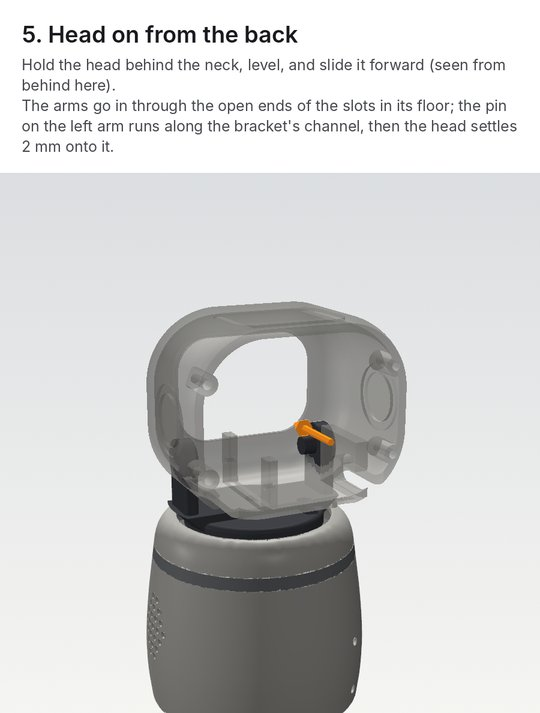
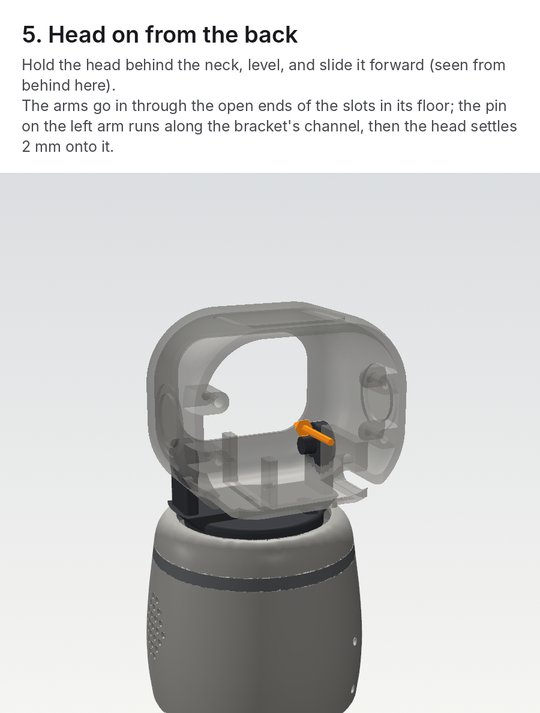
Pod: keep the cover screws where they were and give them solid pads
Dan has already printed the head, so 566f447's moved screws and changed head
bosses are undone: the head is back exactly as it was. The cover keeps its
holes at 28.6 mm out and 13 mm above and below the middle. Each now has a
solid 3 mm flat pad round it at the cut face for the screw head to sit on
(clipped to the cover's outline), and above it a 10 mm lug joined to the
side wall that runs up to the back wall. Both stand on the bed, so nothing
round the screws needs supports, which is what tore the thin curl off.
The build guide's print table now says the cover needs supports under its
back wall only.

Claude-Session: https://claude.ai/code/session_012i1oPz2httJgKX5brpsP29

diff --git a/pod/cad/kit_pod_v2.py b/pod/cad/kit_pod_v2.py
@@ -254,19 +254,26 @@ def head_shell():
 
 BOSS_D = 6.0
 COVER_LUG_D = 10.0                      # the cover's solid lug round each of its screws
+COVER_PAD_T = 3.0                       # the flat pad each cover screw's head sits on
 
 
 def head_cover_bosses():
-    # In from the sides and 8 mm above and below the middle. The cover is only 9 mm deep and its sides curve
-    # in toward the back, so further out or further up and down the holes broke out through its wall.
-    return [(sx * 25.5, H_ZC + sz * 8.0) for sx in (-1, 1) for sz in (-1, 1)]
+    return [(sx * 28.6, H_ZC + sz * 13.0) for sx in (-1, 1) for sz in (-1, 1)]
 
 
 def cover_screw_lug(x, z, d, y0, y1):
-    """A round lug along Y for a cover screw, with a web out to the side wall so it's part of the shell."""
+    """A round lug along Y for a cover screw, with a web out to the side wall so it's part of the cover."""
     sx = 1 if x > 0 else -1
     web = box(min(x, sx * (HW / 2 + 1)), y0, z - d / 2, max(x, sx * (HW / 2 + 1)), y1, z + d / 2)
     return cyl(d, y1 - y0, (x, y0, z), "Y").union(web)
+
+
+def cut_face_outline(y0, y1):
+    """The head's outline where it meets the cover, run straight along Y: the back fillet has already pulled the
+    sides in a little there, so this is the outer shape shrunk by that much."""
+    e = H_BACK_R - math.sqrt(H_BACK_R ** 2 - (H_CUT - (H_Y1 - H_BACK_R)) ** 2)
+    s = cq.Workplane().box(HW - 2 * e, y1 - y0, HH - 2 * e, centered=(True, False, True)).translate((0, y0, H_ZC))
+    return s.edges("|Y").fillet(H_R - e)
 
 
 def arm_slot(x0, x1):
@@ -304,7 +311,7 @@ def head():
     shell = shell.union(bulk.union(brk).intersect(inside))
     # bosses for the back cover
     for x, z in head_cover_bosses():
-        shell = shell.union(cover_screw_lug(x, z, BOSS_D, H_CUT - 10, H_CUT).intersect(inside))
+        shell = shell.union(cyl(BOSS_D, 10, (x, H_CUT - 10, z), "Y").intersect(inside))
         shell = shell.cut(cyl(pilot, 9, (x, H_CUT - 9, z), "Y"))
     # floor: slots for the neck's arms and the wire hole
     shell = shell.cut(arm_slot(R_ARM_X0 - 0.5, R_ARM_X0 + ARM_T + 0.5))
@@ -336,15 +343,20 @@ def ears():
 
 def cover():
     c = head_shell().intersect(box(-50, H_CUT, -10, 50, 60, 120))
-    # A solid lug round each screw, from the cut face to the back wall and joined to the side wall, so the
-    # hole and the screw head's counterbore have plastic all round (bare, they left only a thin curl of wall).
-    # The lugs stand on the bed (the cover prints cut face down), so they need no supports.
+    # The screws sit where the cover's corners curve in toward the back, so the cover is only 2-3 mm deep
+    # there and the hole and the screw head's counterbore left a thin curl of wall that tore off with the
+    # supports. Each screw now has a flat pad, solid from the cut face to COVER_PAD_T, that the screw head
+    # sits on, and above it a lug joined to the side wall that runs up to the back wall. Both stand on the
+    # bed (the cover prints cut face down), so nothing round the screws needs supports. The holes stay
+    # where they were, so the head's bosses don't change.
     outer = head_outer().intersect(box(-50, H_CUT, -10, 50, 60, 120))
+    rim = cut_face_outline(H_CUT, H_CUT + COVER_PAD_T)
     for x, z in head_cover_bosses():
         c = c.union(cover_screw_lug(x, z, COVER_LUG_D, H_CUT, H_Y1 + 1).intersect(outer))
+        c = c.union(cyl(COVER_LUG_D, COVER_PAD_T, (x, H_CUT, z), "Y").intersect(rim))
     for x, z in head_cover_bosses():
         c = c.cut(cyl(clear3, 30, (x, H_CUT - 1, z), "Y"))
-        c = c.cut(cyl(6.2, 30, (x, H_CUT + 3.0, z), "Y"))      # counterbore: screw heads sit inside
+        c = c.cut(cyl(6.2, 30, (x, H_CUT + COVER_PAD_T, z), "Y"))   # counterbore: screw heads sit on the pad
     return c
 
 

diff --git a/pod/cad/README.md b/pod/cad/README.md
@@ -98,4 +98,4 @@ The pin's bracket in the head is 4 mm thick, with 7 mm of wall below the pin's c
 
 The body's three base screw bosses are joined to its wall by a 7 mm web with a 45 degree gusset on top. On their own they stood 0.1 to 0.9 mm clear of the wall, so they printed as loose towers and snapped off (2026-10-14).
 
-The back cover's four screws sit 25.5 mm either side of the middle and 8 mm above and below it, each through a 10 mm lug joined to the cover's side wall, and the head's matching bosses are joined to its walls too. Further out and further up and down, the cover's curved back corners left only a thin curl of wall round each hole, which tore off with the supports (2026-10-18).
+The back cover's four screws sit 28.6 mm either side of the middle and 13 mm above and below it, where the cover's back corners curve in and it is only 2-3 mm deep. Each hole has a solid 3 mm flat pad round it at the cut face for the screw head to sit on, and above that a 10 mm lug joined to the cover's side wall; both stand on the bed, so nothing round the screws needs supports. Without them the hole and the screw head's counterbore left only a thin curl of wall, which tore off with the supports. The holes stayed put, so a head printed before this still fits (2026-10-18).

diff --git a/docs/4 Guides/Building the Pod.md b/docs/4 Guides/Building the Pod.md
@@ -64,7 +64,7 @@ Then print the rest:
 | Part | Colour | Lay it | Supports |
 |---|---|---|---|
 | head | white | back opening down | yes, tree supports |
-| cover | white | flat side down | none |
+| cover | white | flat side down | yes, under the back wall only; the screw pads and lugs stand on the bed |
 | face (screws) or face_pins | black | front down | none |
 | ear x 2 | orange | flat side down | none |
 | neck | dark grey | disc down | touching the bed only |
